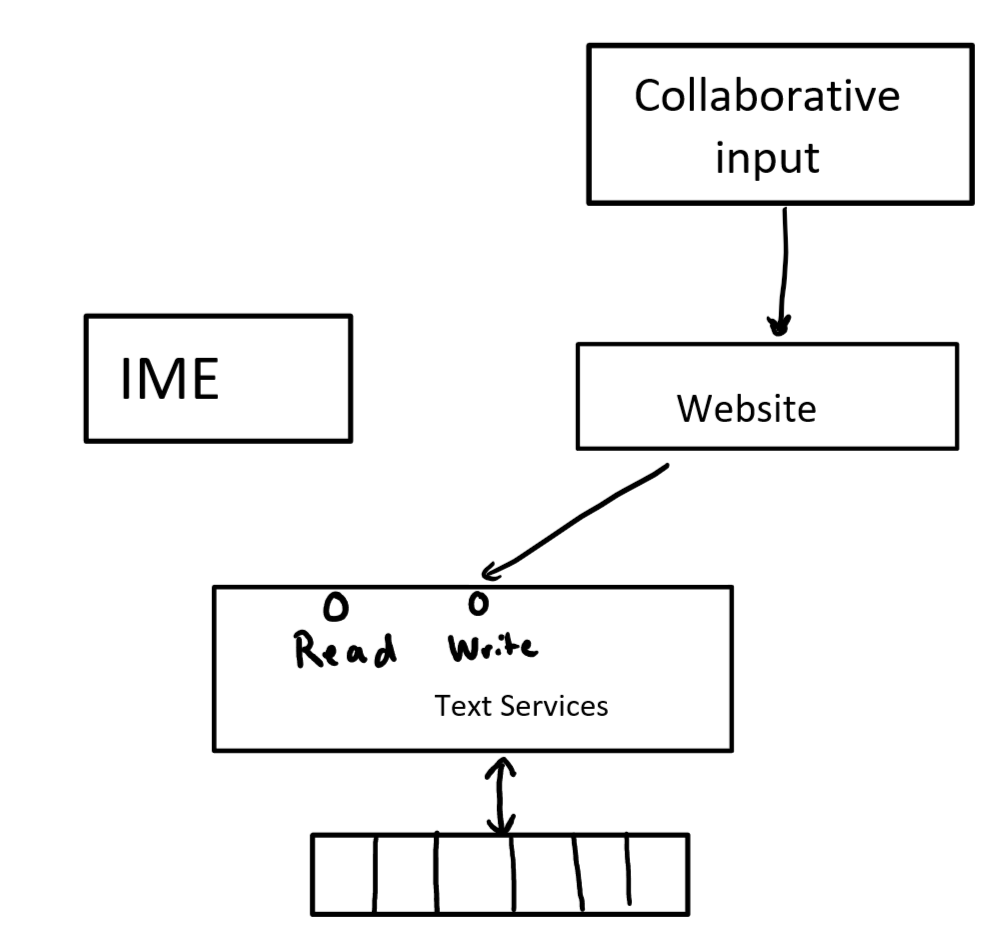
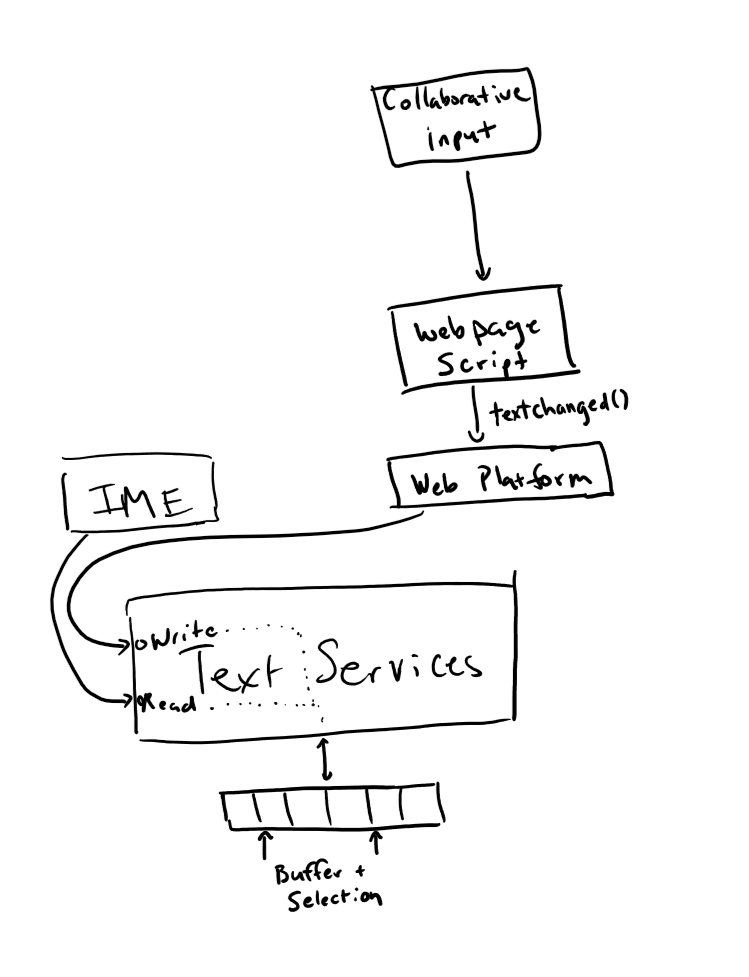
IMplementation detail WIP

Changed region(s): [[0.0614, 0.0309, 0.9826, 0.9904], [0.1228, 0.3714, 0.215, 0.4333]]

diff --git a/explainer.md b/explainer.md
@@ -28,25 +28,24 @@ The web application is free to communicate before, after or during a request fro
 
 After creating an EditContext object, the web application should initialize the text and selection (unless the default of empty is desired) along with the layout bounds of the EditContext's representation in the HTML view by calling ```textChanged()```, ```selectionChanged()```, and ```layoutChanged()```, respectively.
 
-## Text Flow
+## Basic scenarios
 
 ![shared text](shared_text_basic.png)
 
-The typical flow of text input comes from the user pressing keys on the keyboard. These are delivered to the browser, which may opt into using the system's text services framework in order to integrate with the IMEs installed on the system. This will cause input to be forwarded through the active IME. The IME is then able to query the text services to read contextual information related to the underlying editable text in order to provide suggestions, and potentially modify which character(s) should be written to the shared buffer. These modifications are typically performed based on the current selection, which is also communicated through the text services framework. When the shared buffer is updated, the web application will be notified of this via the ```textupdate``` event.
+The typical flow of text input comes from the user pressing keys on the keyboard. These are delivered to the browser, which opted-in to using the system's text services framework in order to integrate with the IMEs installed on the system. This will cause input to be forwarded to the active IME. The IME is then able to query the text services to read contextual information related to the underlying editable text in order to provide suggestions, and potentially modify which character(s) should be written to the shared buffer. These modifications are typically performed based on the current selection, which is also communicated through the text services framework. When the shared buffer is updated, the web application will be notified of this via the ```textupdate``` event.
 
-Changes to the editable contents can also come from external events, such as collaboration scenarios. In this case, the web editing framework is responsible for writing to the shared buffer, via the ```textChanged()``` method.
+Changes to the editable contents can also come from external events, such as collaboration scenarios. In this case, the web editing framework may get some XHR completion that notifies it of some pending collaboartive change that another user has committed. The framework is then responsible for writing to the shared buffer, via the ```textChanged()``` method.
 
 ![external input](external_input.png)
-
 
 ## API Details
 
 The ```textupdate``` event will be fired on the EditContext when user input has resulted in characters being applied to the editable region. The event signals the fact that the software keyboard updated the text (and as such that state is reflected in the shared buffer at the time the event is fired). This can be a single character update, in the case of typical typing scenarios, or multiple-character insertion based on the user changing composition candidates. Even though text updates are the results of the software keyboard modifying the buffer, the creator of the EditContext is ultimately responsible for keeping its underlying model up-to-date with the content that is being edited as well as telling the EditContext about such changes. These could get out of sync, for example, when updates to the editable content come in through other means (the backspace key is a canonical example --- no ```textupdate``` is fired in this case, and the consumer of the EditContext should detect the keydown event and remove characters as appropriate).
 
-Updates to the shared buffer are done via the ```textChanged()``` method on the EditContext. ```textChanged()``` accepts a range (start and end absolute positions over the underlying buffer) and the characters to insert at that range. ```textChanged()``` should be called anytime the editable contents have been updated. However, in general this should be avoided during the firing of ```textupdate``` as it will result in a canceled composition.
+Updates to the shared buffer are done via the ```textChanged()``` method on the EditContext. ```textChanged()``` accepts a range (start and end offsets over the underlying buffer) and the characters to insert at that range. ```textChanged()``` should be called anytime the editable contents have been updated. However, in general this should be avoided during the firing of ```textupdate``` as it will result in a canceled composition.
 
-The ```selectionupdate``` event is fired when the input method wants a specific region selected, generally in response to an operation like IME reconversion.
-```selectionChanged()``` should be called whenever the selection has changed, e.g. from Shift+Arrow or some other combination of control keys.
+The ```selectionupdate``` event is fired when the IME wants a specific region selected, generally in response to an operation like IME reconversion.
+```selectionChanged()``` should be called whenever the selection has changed. This could be from a combination of control keys (e.g. Shift + Arrow) or mouse selection.
 
 The ```layoutChanged()``` method must be called whenever the client coordinates of the view of the EditContext have changed. The preferred method of providing that update is through an IntersectionObserver, which will ensure up-to-date coordinates can be reported for each frame. For example, if content is added near the editable content, or the document is scrolled, the coordinates may change without the EditContext being involved. Using an IntersectionObserver will ensure such changes are reported to the text services framework as the editable content moves around on the screen.
 
@@ -60,6 +59,7 @@ The ```type``` property on the EditContext denotes what type of input the EditCo
 
 ## Example usage
 
+Basic setup:
 ```javascript
 
 // User defined class that contains the underlying model for the editable content
@@ -226,9 +226,12 @@ interface EditContext : EventTarget {
 
 ```
 
-## Implementation details
+## Implementation notes
 
-In a browser where the document thread is decoupled from the input thread, there is some synchronization that needs to take place so that the web developer can provide a consistent and reliable editing experience. 
+In a browser where the document thread is separate from the input thread, there is some synchronization that needs to take place so that the web developer can provide a consistent and reliable editing experience to the user. Because the threads are decoupled, there must be another copy of the shared buffer to avoid synchronous communication between the two threads. The copies of the shared buffer are then managed by a component that lives on the input thread, and a component that lives in the web platform component. The copies are synchronized by treating the buffer of the document thread as the source of truth - updates from the input thread are converted into asynchronous notifications with ACKs, where the update is not committed until it has been confirmed as received by the document thread.
+
+!
+
 The OS sees the key press and and delivers a message to the browser's input thread. The browser's input thread will route this to the appropriate document thread. If an EditContext has focus, the ```keydown``` event will be fired on that EditContext. As part of handling the key down on the input thread, the IME (if in use) will also be fed the key. It may choose to interpret that key differently depending on the input language --- the IME will then inform the text services framework to update the shared buffer. The text service will then tell the browser about this update, which eventually gets routed to the EditContext via the ```textupdate``` event. The user then lifts their finger from the key - the OS again delivers a message to the browser's input thread, and following the previous flow, the ```keyup``` event will be dispatched on the EditContext.
 
 Due to the asynchronous nature of these updates, it is possible for the ```textupdate```
@@ -236,4 +239,6 @@ Due to the asynchronous nature of these updates, it is possible for the ```textu
 
 How to deal with the object model for focus, which is currently expressed via an Element (e.g. document.activeElement). Additionally how do we define tab ordering? Could we associate the EditContext with an element and have it 'forward' events? 
 
-No mention of accessibility --- need integration so that screen readers also have context as to where the caret/selection is placed in the content.
+No mention of accessibility --- need integration so that screen readers also have context as to where the caret/selection is placed as well as the surrounding contents.
+
+Is IntersectionObserver the right recommendation for updating layout bounds, or should we consider adding another phase in the HTML rendering steps?
